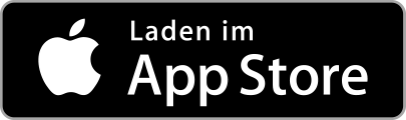
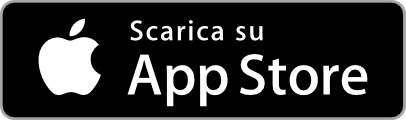
italian page

diff --git a/index.html b/index.html
@@ -4,12 +4,12 @@
     <meta charset="utf-8">
     <meta http-equiv="X-UA-Compatible" content="IE=edge">
     <meta name="viewport" content="width=device-width, initial-scale=1">
-		<meta name="description" content="Stillbuch erfasst alle Mahlzeiten Deines Babys."/>
-  	<meta name="keywords" content="stillen, stoppuhr, fläschchen, mutter, baby, tagebuch" />
-		<meta name="language" content="de"/>
-		<meta name="content-language" content="de"/>
+		<meta name="description" content="Il diario d´allattamento registrerà tutti i pasti del tuo bimbo."/>
+  	<meta name="keywords" content="allattamento, allattare, diario" />
+		<meta name="language" content="it"/>
+		<meta name="content-language" content="it"/>
 		<meta name="publisher" content="simplabs, Malthe Luda" />
-    <title>Mein Stillbuch</title>
+    <title>Il mio diario dell´allattamento</title>
     <link rel="shortcut icon" type="image/x-icon" href="/images/stillbuch.ico" />
     <link rel="apple-touch-icon" href="/images/apple-57.png">
     <link rel="apple-touch-icon" sizes="72x72" href="/images/apple-72.png">
@@ -35,10 +35,10 @@
           <i id="main-image" class="default"></i>
         </div>
         <div class="col-md-7 col-xs-12">
-          <h1>Mein Stillbuch</h1>
+          <h1>Il mio diario dell´allattamento</h1>
           <a id="download-teaser" href="https://itunes.apple.com/us/app/stillbuch/id918237891?l=de&ls=1&mt=8"><i></i></a>
-          <p>Stillbuch erfasst alle Mahlzeiten Deines Babys. Mit der Stoppuhr kannst Du bequem festhalten wie lange Dein Baby an welcher Brust trinkt. Auch Mahlzeiten aus dem Fläschchen können einfach eingegeben werden. Im Still-Tagebuch werden alle Mahlzeiten gespeichert so dass Du immer einen Überblick darüber hast wann Dein Baby wie lange bzw. wie viel getrunken hat.</p>
-          <p>Liebevolle Mütter empfehlen Stillbuch.</p>
+          <p>Questo diario registrerà tutti i pasti del tuo bimbo. Con il timer riuscirai comodamente a stabilire quanto a lungo a da quale seno il tuo bambino prenderà il latte. Anche i pasti dal biberon possono essere aggiunti semplicemente. Poter memorizzare tutte le poppate ti fornirà sempre una completa visione su quanto, e come, il tuo bambino si sarà nutrito.</p>
+          <p>Madri amorevoli consigliano il diario d´allattamento.</p>
           <a href="https://itunes.apple.com/us/app/stillbuch/id918237891?l=de&ls=1&mt=8" class="store-link">
             <i id="load"></i>
           </a>
@@ -48,34 +48,34 @@
         <div class="col-md-3 col-xs-6 text-center">
           <a href="#clock">
             <i class="feature-clock"></i>
-            Einfache <br/>Zeiterfassung
+            Registra<br/>il tempo
           </a>
         </div>
         <div class="col-md-3 col-xs-6 text-center">
           <a href="#history">
             <i class="feature-history"></i>
-            Persönliches <br/>Still-Tagebuch
+            Diario dell´allattamento<br/>personale
           </a>
         </div>
         <div class="col-md-3 col-xs-6 text-center">
           <a href="#bottle">
             <i class="feature-bottle"></i>
-            Erfassung von <br/>Flaschennahrung
+            Registra<br/>il biberon
           </a>
         </div>
         <div class="col-md-3 col-xs-6 text-center">
           <a href="#recommended">
             <i class="feature-recommended"></i>
-            Von liebevollen <br/>Müttern empfohlen
+            Consigliato da<br/>madri amorevoli
           </a>
         </div>
       </div>
     </div>
     <nav id="footer" class="navbar" role="navigation">
       <div class="container">
-        <p class="navbar-text">Stillbuch ist ein Gemeinschaftsprojekt von <a target="_blank" href="http://simplabs.com">simplabs</a> und <a href="http://www.maltheluda.com/" target="_blank">Malthe Luda</a>.</p>
+        <p class="navbar-text">Il Diario d´allattamento è un progetto di<a target="_blank" href="http://simplabs.com">simplabs</a> e <a href="http://www.maltheluda.com/" target="_blank">Malthe Luda</a>.</p>
         <p class="navbar-text">
-          <a class="imprint" href="files/presskit.zip">Pressematerial</a> |
+          <a class="imprint" href="files/presskit.zip">Communicati stampa</a> |
           <a class="imprint" href="http://simplabs.com/imprint">Impressum</a>
         </p>
       </div>

diff --git a/css/main.scss b/css/main.scss
@@ -109,7 +109,7 @@ body {
   }
 
   h1 {
-    font-size: 60px;
+    font-size: 37px;
     margin: 150px 0 30px 0;
     font-weight: bold;
   }

diff --git a/README.md b/README.md
@@ -1,6 +1,6 @@
-# mein-stillbuch.de
+# diario-dallattamento.it
 
-The source code for http://mein-stillbuch.de
+The source code for http://diario-dallattamento.it
 
 ## Running locally
 
